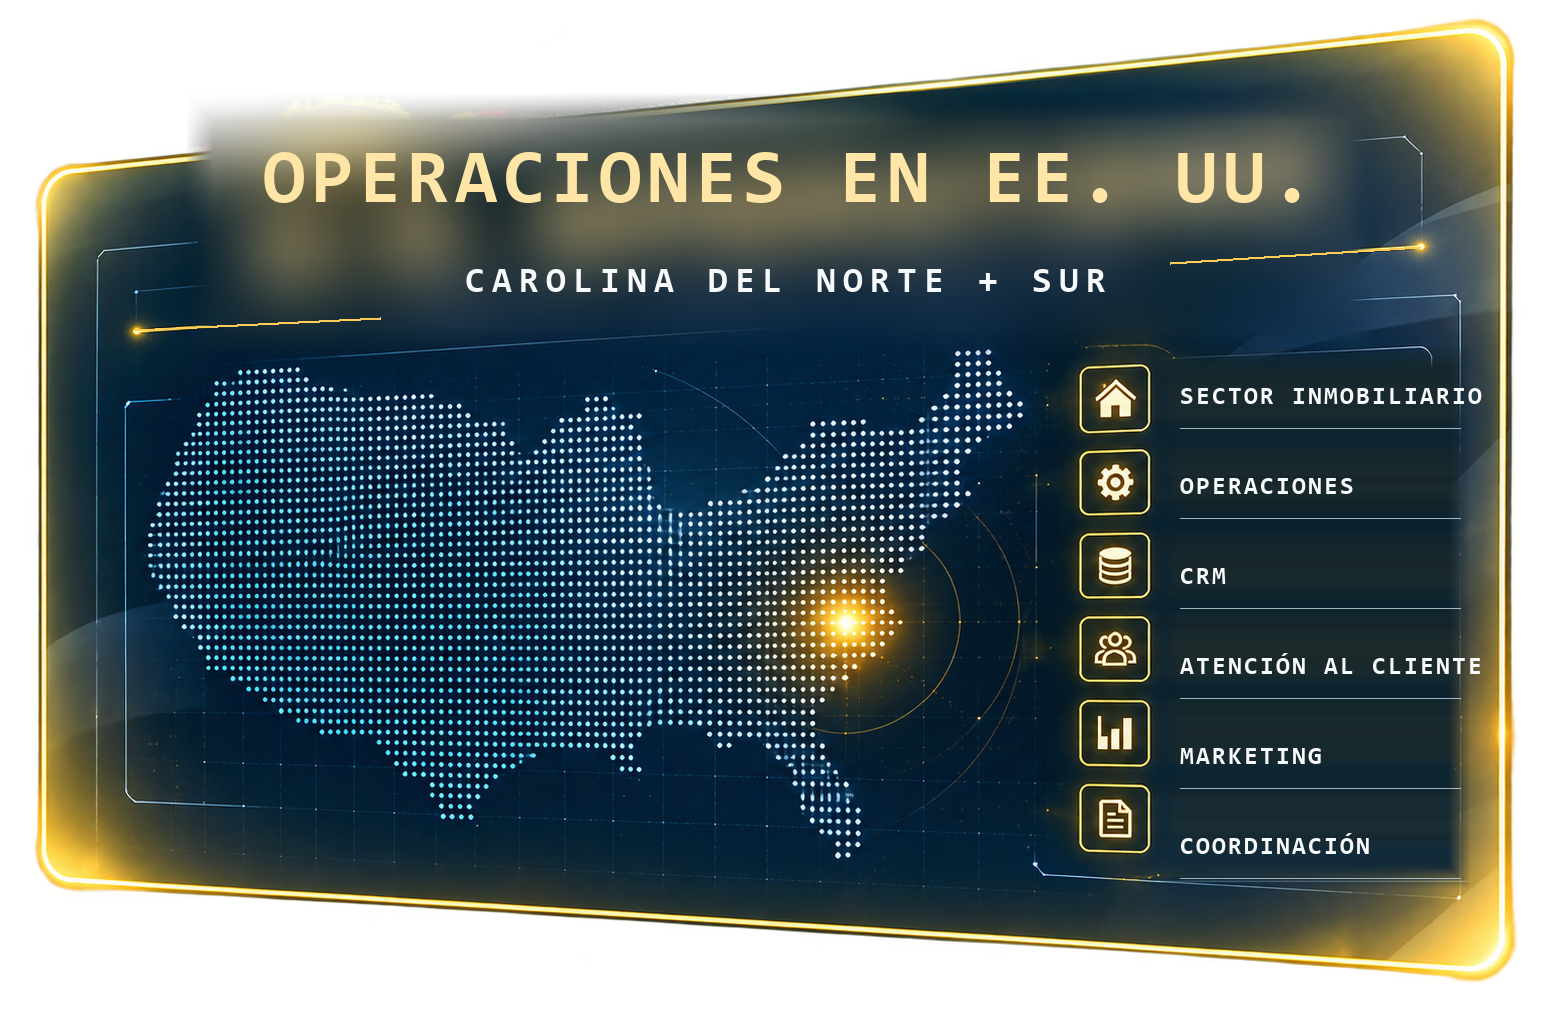
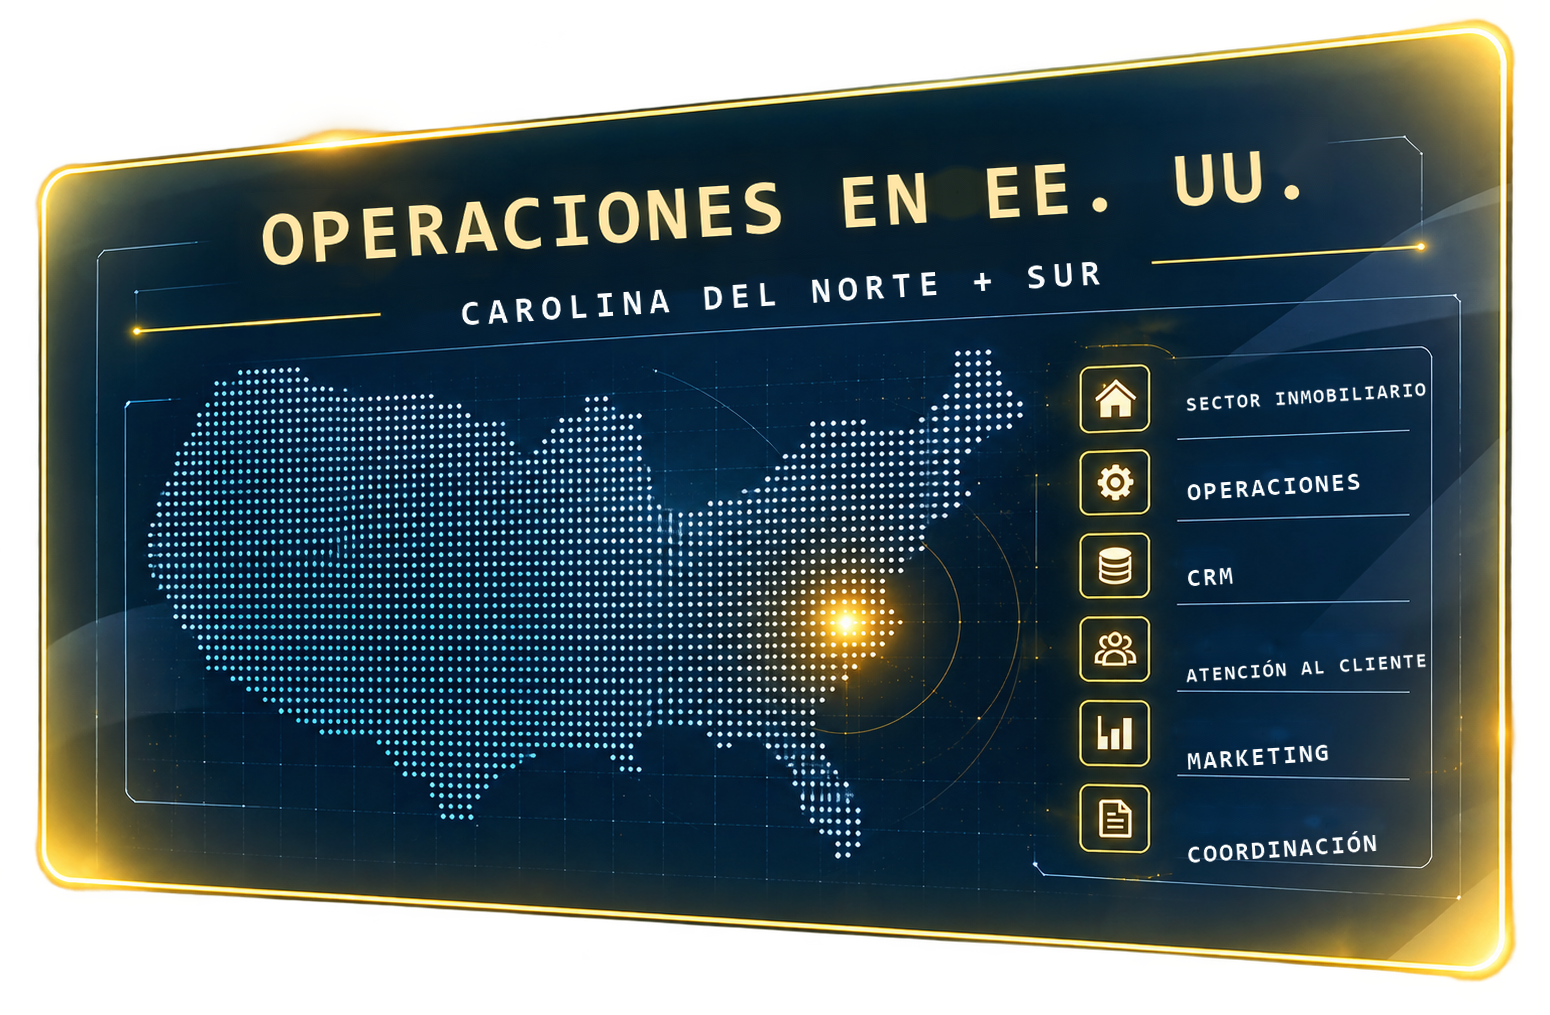
fix: rebuild localized remote panels from frozen frame

Changed region(s): [[0.1239, 0.0916, 0.8981, 0.336], [0.7432, 0.3665, 0.96, 0.8857]]

diff --git a/tools/build_localized_panels.py b/tools/build_localized_panels.py
@@ -1,25 +1,94 @@
-from PIL import Image, ImageDraw, ImageFont, ImageFilter
 from pathlib import Path
 
-ROOT = Path(__file__).resolve().parents[1]
-asset_dir = ROOT / "assets" / "remote"
-source = Image.open(asset_dir / "REMOTE_PANEL_REFERENCE_COMPOSITE_EN_20260930.png").convert("RGBA")
-font_path = r"C:\Windows\Fonts\consolab.ttf"
-font_title = ImageFont.truetype(font_path, 96)
-font_region = ImageFont.truetype(font_path, 36)
-font_item = ImageFont.truetype(font_path, 25)
+import cv2
+import numpy as np
+from PIL import Image, ImageDraw, ImageFilter, ImageFont
 
-def fit_title_font(draw, text, max_width=1050):
-    size = 96
-    while size > 64:
-        font = ImageFont.truetype(font_path, size)
-        if tracked_width(draw, text, font, 6) <= max_width:
-            return font
-        size -= 1
-    return ImageFont.truetype(font_path, 64)
+ROOT = Path(__file__).resolve().parents[1]
+ASSET_DIR = ROOT / "assets" / "remote"
+SOURCE = Image.open(ASSET_DIR / "REMOTE_PANEL_REFERENCE_COMPOSITE_EN_20260930.png").convert("RGBA")
+WIDTH, HEIGHT = SOURCE.size
+FONT_PATH = r"C:\Windows\Fonts\consolab.ttf"
+ANGLE = 3.7
+
+
+def add_component_text_mask(mask, rect, predicate, component_filter, dilation=7):
+    x0, y0, x1, y1 = rect
+    rgba = np.asarray(SOURCE)
+    rgb = rgba[:, :, :3]
+    alpha = rgba[:, :, 3]
+    crop = rgb[y0:y1, x0:x1]
+    local = (np.fromiter(
+        (255 if predicate(tuple(int(v) for v in pixel)) else 0 for pixel in crop.reshape(-1, 3)),
+        dtype=np.uint8,
+        count=crop.shape[0] * crop.shape[1],
+    ).reshape(crop.shape[:2]))
+    local[alpha[y0:y1, x0:x1] < 40] = 0
+    components, labels, stats, _ = cv2.connectedComponentsWithStats(local, 8)
+    selected = np.zeros_like(local)
+    for component in range(1, components):
+        x, y, width, height, area = stats[component]
+        if component_filter(int(x), int(y), int(width), int(height), int(area)):
+            selected[labels == component] = 255
+    if dilation:
+        size = dilation * 2 + 1
+        selected = cv2.dilate(selected, np.ones((size, size), np.uint8), iterations=1)
+    mask[y0:y1, x0:x1] = np.maximum(mask[y0:y1, x0:x1], selected)
+
+
+def restore_glass_without_glyphs():
+    rgba = np.asarray(SOURCE).copy()
+    rgb = rgba[:, :, :3]
+    mask = np.zeros((HEIGHT, WIDTH), dtype=np.uint8)
+
+    # Remove only connected glyph components. This avoids repainting the
+    # transparent outside of the tilted panel or erasing its decorative lines.
+    add_component_text_mask(
+        mask,
+        (190, 100, 1370, 300),
+        lambda p: p[0] > 175 and p[1] > 140 and p[2] > 75 and p[0] - p[2] > 25,
+        lambda x, y, w, h, area: (
+            area > 300 and 8 <= w <= 95 and 35 <= h <= 105
+        ),
+        dilation=18,
+    )
+    add_component_text_mask(
+        mask,
+        (190, 100, 1370, 300),
+        lambda p: p[0] > 150 and p[1] > 125 and p[2] > 70 and p[0] - p[2] > 18,
+        lambda x, y, w, h, area: (
+            area > 25 and 2 <= w <= 34 and 8 <= h <= 34
+            and abs((y + 100 + h / 2) - (275 - 0.13 * ((x + 190 + w / 2) - 70))) < 58
+        ),
+        dilation=10,
+    )
+    add_component_text_mask(
+        mask,
+        (350, 220, 1160, 345),
+        lambda p: min(p) > 120 and max(p) - min(p) < 95,
+        lambda x, y, w, h, area: (
+            area > 18 and 3 <= w <= 35 and 7 <= h <= 38
+        ),
+        dilation=12,
+    )
+    for y0, y1 in ((355, 420), (445, 510), (535, 600), (625, 690), (715, 780), (805, 870)):
+        add_component_text_mask(
+            mask,
+            (1165, y0, 1455, y1),
+            lambda p: min(p) > 100 and max(p) - min(p) < 100,
+            lambda x, y, w, h, area: area > 12 and 2 <= w <= 36 and 7 <= h <= 32,
+            dilation=4,
+        )
+
+    bgr = cv2.cvtColor(rgb, cv2.COLOR_RGB2BGR)
+    repaired = cv2.inpaint(bgr, mask, 7, cv2.INPAINT_TELEA)
+    rgba[:, :, :3] = cv2.cvtColor(repaired, cv2.COLOR_BGR2RGB)
+    return Image.fromarray(rgba, "RGBA")
+
 
 def tracked_width(draw, text, font, tracking):
     return sum(draw.textlength(char, font=font) for char in text) + max(0, len(text) - 1) * tracking
+
 
 def draw_tracked(draw, xy, text, font, fill, tracking):
     x, y = xy
@@ -27,70 +96,64 @@ def draw_tracked(draw, xy, text, font, fill, tracking):
         draw.text((x, y), char, font=font, fill=fill)
         x += draw.textlength(char, font=font) + tracking
 
-def centered(draw, box, text, font, fill, tracking=0):
-    x0, y0, x1, y1 = box
-    bbox = draw.textbbox((0, 0), text, font=font, stroke_width=0)
-    width = tracked_width(draw, text, font, tracking)
-    x = x0 + ((x1 - x0) - width) / 2
-    y = y0 + ((y1 - y0) - (bbox[3] - bbox[1])) / 2 - bbox[1]
-    draw_tracked(draw, (x, y), text, font, fill, tracking)
 
-def apply_feathered_patch(image, rect, patch, feather=24):
-    x0, y0, x1, y1 = rect
-    width, height = patch.size
-    mask = Image.new("L", (width, height), 0)
-    mp = mask.load()
-    for y in range(height):
-        for x in range(width):
-            edge = min(x, y, width - 1 - x, height - 1 - y)
-            mp[x, y] = min(255, round(edge * 255 / feather))
-    image.paste(patch, (x0, y0), mask)
+def render_text(text, font, fill, tracking, glow, glow_radius):
+    probe = ImageDraw.Draw(Image.new("RGBA", (1, 1)))
+    width = int(tracked_width(probe, text, font, tracking)) + 80
+    bbox = probe.textbbox((0, 0), text, font=font)
+    height = max(80, bbox[3] - bbox[1] + 80)
+    layer = Image.new("RGBA", (width, height), (0, 0, 0, 0))
+    x = 40
+    y = 40 - bbox[1]
+    glow_layer = Image.new("RGBA", layer.size, (0, 0, 0, 0))
+    draw_tracked(ImageDraw.Draw(glow_layer), (x, y), text, font, glow, tracking)
+    layer = Image.alpha_composite(layer, glow_layer.filter(ImageFilter.GaussianBlur(glow_radius)))
+    draw_tracked(ImageDraw.Draw(layer), (x, y), text, font, fill, tracking)
+    bbox = layer.getbbox()
+    return layer.crop(bbox) if bbox else layer
 
-def replace_with_soft_glass(image, rect, radius):
-    """Erase baked glyphs while retaining a feathered version of the glass."""
-    x0, y0, x1, y1 = rect
-    patch = source.crop((x0, y0, x1 + 1, y1 + 1)).filter(ImageFilter.GaussianBlur(radius))
-    apply_feathered_patch(image, rect, patch, feather=28)
 
-def replace_list_glass(image, rect):
-    """Use the clean left edge of the list glass as its local background."""
-    x0, y0, x1, y1 = rect
-    patch = Image.new("RGBA", (x1 - x0 + 1, y1 - y0 + 1))
-    source_px = source.load()
-    patch_px = patch.load()
-    for y in range(y0, y1 + 1):
-        color = source_px[1155, y]
-        for x in range(x0, x1 + 1):
-            patch_px[x - x0, y - y0] = color
-    apply_feathered_patch(image, rect, patch, feather=22)
+def fit_width(layer, max_width):
+    if layer.width <= max_width:
+        return layer
+    return layer.resize((max_width, round(layer.height * max_width / layer.width)), Image.Resampling.LANCZOS)
+
+
+def composite_center(base, layer, center):
+    base.alpha_composite(layer, (round(center[0] - layer.width / 2), round(center[1] - layer.height / 2)))
+
+
+def add_rotated(base, text, font, fill, tracking, glow, glow_radius, center, max_width=None):
+    layer = render_text(text, font, fill, tracking, glow, glow_radius)
+    if max_width:
+        layer = fit_width(layer, max_width)
+    composite_center(base, layer.rotate(ANGLE, resample=Image.Resampling.BICUBIC, expand=True), center)
+
+
+def add_rotated_left(base, text, font, fill, tracking, glow, glow_radius, left, center_y, max_width=None):
+    layer = render_text(text, font, fill, tracking, glow, glow_radius)
+    if max_width:
+        layer = fit_width(layer, max_width)
+    rotated = layer.rotate(ANGLE, resample=Image.Resampling.BICUBIC, expand=True)
+    composite_center(base, rotated, (left + rotated.width / 2, center_y))
+
 
 def build(code, title, region, items):
-    image = source.copy()
-    # The source is the frozen EN composite. Only the title/list text zones
-    # are rebuilt from untouched glass samples; map, glows and borders survive.
-    replace_with_soft_glass(image, (185, 92, 1375, 355), 32)
-    replace_list_glass(image, (1155, 346, 1470, 888))
-
-    overlay = Image.new("RGBA", image.size, (0, 0, 0, 0))
-    draw = ImageDraw.Draw(overlay)
+    image = restore_glass_without_glyphs()
+    title_font = ImageFont.truetype(FONT_PATH, 96)
+    region_font = ImageFont.truetype(FONT_PATH, 36)
+    item_font = ImageFont.truetype(FONT_PATH, 25)
     gold = (255, 230, 166, 255)
     white = (247, 249, 250, 255)
-    localized_title_font = fit_title_font(draw, title)
 
-    # Match the EN tracking and luminous hierarchy.
-    centered(draw, (230, 120, 1345, 235), title, localized_title_font, gold, tracking=6)
-    centered(draw, (360, 246, 1210, 316), region, font_region, white, tracking=7)
-    draw.line((135, 330, 380, 318), fill=(255, 205, 85, 255), width=3)
-    draw.line((1170, 263, 1420, 247), fill=(255, 205, 85, 255), width=3)
+    # Same angle, centers, hierarchy and panel bounds as the frozen EN frame.
+    add_rotated(image, title, title_font, gold, 6, (255, 204, 72, 180), 11, (780, 207), 1080)
+    add_rotated(image, region, region_font, white, 7, (160, 218, 255, 100), 5, (780, 293), 760)
+    for y, item in zip((397, 487, 577, 667, 757, 847), items):
+        add_rotated_left(image, item, item_font, white, 2, (155, 211, 245, 75), 3, 1180, y, 250)
 
-    # Replace list text only; icons, glows and panel lines remain from EN.
-    y_positions = [385, 475, 565, 655, 745, 835]
-    for y, item in zip(y_positions, items):
-        draw_tracked(draw, (1180, y), item, font_item, white, tracking=2)
-        draw.line((1180, y + 43, 1460, y + 43), fill=(190, 214, 226, 210), width=1)
+    image.save(ASSET_DIR / f"REMOTE_PANEL_REFERENCE_COMPOSITE_{code}_20261018.png", optimize=True)
 
-    image = Image.alpha_composite(image, overlay)
-    image.save(asset_dir / f"REMOTE_PANEL_REFERENCE_COMPOSITE_{code}_20261018.png", optimize=True)
 
 build("PT", "OPERAÇÕES NOS EUA", "CAROLINA DO NORTE + SUL", [
     "MERCADO IMOBILIÁRIO", "OPERAÇÕES", "CRM", "SUPORTE A CLIENTES", "MARKETING", "COORDENAÇÃO"
